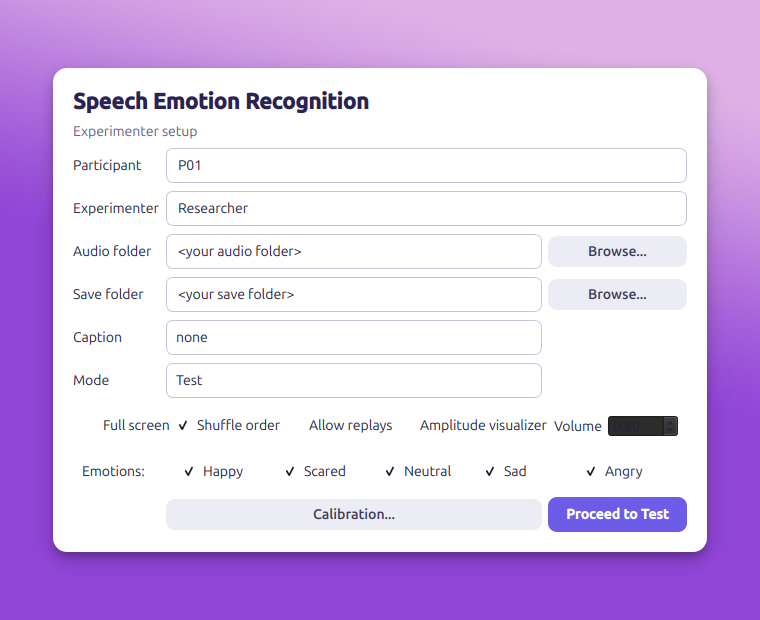
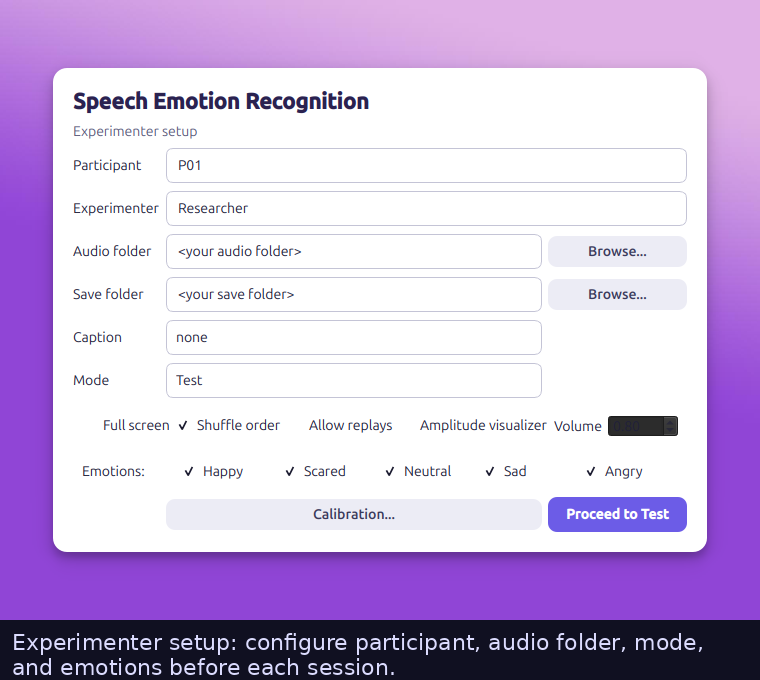
docs: retake calibration screenshots with real data, annotate, expand README
- Three calibration tab screenshots (stimuli/naming, loudness & trim, SPL tone)
  each loaded with bundled audio data and annotated with a wrapped caption bar.
- Folder fields show <your audio folder> placeholder instead of local paths.
- README screenshot section: setup + monitor in main table; calibration tabs
  in a collapsible <details> block to keep the page uncluttered.
- scripts/take_screenshots.py updated with text-wrap annotator and per-tab logic.

diff --git a/scripts/take_screenshots.py b/scripts/take_screenshots.py
@@ -1,52 +1,143 @@
-"""Take screenshots of each UI panel and save to docs/screenshots/."""
+"""Take screenshots of each UI panel and save to docs/screenshots/.
+
+Run with:  DISPLAY=:0 .venv/bin/python scripts/take_screenshots.py
+"""
 import sys
 import os
+import io
 sys.path.insert(0, os.path.join(os.path.dirname(__file__), ".."))
 
-from PyQt6.QtWidgets import QApplication
+from PyQt6.QtWidgets import QApplication, QTabWidget
+from PIL import Image, ImageDraw, ImageFont
+
 app = QApplication(sys.argv[:1])
+OUT = os.path.normpath(os.path.join(os.path.dirname(__file__), "..", "docs", "screenshots"))
+os.makedirs(OUT, exist_ok=True)
 
-out = os.path.join(os.path.dirname(__file__), "..", "docs", "screenshots")
-os.makedirs(out, exist_ok=True)
 
-
-def grab(widget, name):
+def grab_widget(widget) -> Image.Image:
+    """Return a PIL Image of the widget's current appearance."""
     widget.show()
     app.processEvents()
     app.processEvents()
     pix = widget.grab()
-    pix.save(os.path.join(out, name))
+    buf = pix.toImage()
+    ba = __import__('PyQt6.QtCore', fromlist=['QByteArray']).QByteArray()
+    buf2 = __import__('PyQt6.QtCore', fromlist=['QBuffer']).QBuffer(ba)
+    buf2.open(__import__('PyQt6.QtCore', fromlist=['QIODevice']).QIODevice.OpenModeFlag.WriteOnly)
+    buf.save(buf2, "PNG")
+    return Image.open(io.BytesIO(bytes(ba)))
+
+
+def annotate(img: Image.Image, text: str, position: str = "bottom") -> Image.Image:
+    """Add a semi-transparent banner with wrapped *text* to top or bottom of *img*."""
+    import textwrap
+    img = img.convert("RGBA")
+    w, h = img.size
+    font_size = max(15, h // 28)
+    try:
+        font = ImageFont.truetype("/usr/share/fonts/truetype/dejavu/DejaVuSans.ttf", font_size)
+    except Exception:
+        font = ImageFont.load_default()
+
+    # Wrap text to fit image width (estimate ~chars that fit).
+    chars_per_line = max(40, w // (font_size // 2 + 1))
+    lines = textwrap.wrap(text, width=chars_per_line)
+    wrapped = "\n".join(lines)
+
+    dummy = Image.new("RGBA", (1, 1))
+    dc = ImageDraw.Draw(dummy)
+    bbox = dc.textbbox((0, 0), wrapped, font=font)
+    text_h = bbox[3] - bbox[1]
+    bar_h = text_h + 18
+
+    banner = Image.new("RGBA", (w, bar_h), (20, 20, 40, 210))
+    draw = ImageDraw.Draw(banner)
+    draw.text((12, 9), wrapped, font=font, fill=(220, 220, 255, 255))
+
+    out = Image.new("RGBA", (w, h + bar_h))
+    if position == "bottom":
+        out.paste(img, (0, 0))
+        out.paste(banner, (0, h), banner)
+    else:
+        out.paste(banner, (0, 0), banner)
+        out.paste(img, (0, bar_h))
+    return out.convert("RGB")
+
+
+def save(img: Image.Image, name: str) -> None:
+    path = os.path.join(OUT, name)
+    img.save(path)
     print(f"Saved {name}")
-    widget.close()
-    app.processEvents()
 
 
 # ── 1. Experimenter setup ────────────────────────────────────────────────────
 from emognition.ui.config_window import ConfigWindow
 from emognition.config import ExperimentSettings
 
-w1 = ConfigWindow(settings_path="/dev/null")   # ignore saved settings
+w1 = ConfigWindow(settings_path="/dev/null")
 w1.apply_settings(ExperimentSettings(
     participant="P01",
     experimenter="Researcher",
     audio_dir="<your audio folder>",
     save_dir="<your save folder>",
 ))
-grab(w1, "setup.png")
+img = grab_widget(w1)
+w1.close()
+save(annotate(img, "Experimenter setup: configure participant, audio folder, mode, and emotions before each session."), "setup.png")
 
-# ── 2. Calibration window ────────────────────────────────────────────────────
+
+# ── 2. Calibration — three tabs ──────────────────────────────────────────────
 from emognition.ui.calibration_window import CalibrationWindow
-w2 = CalibrationWindow()
-# Clear the pre-filled folder so no local path shows.
-w2.findChild(__import__('PyQt6.QtWidgets', fromlist=['QLineEdit']).QLineEdit).setText("")
-grab(w2, "calibration.png")
+from emognition.ui.assets import audio_dir
 
-# ── 3. Monitor window (seeded with mid-session data) ─────────────────────────
+w2 = CalibrationWindow()
+w2.show()
+app.processEvents()
+tabs: QTabWidget = w2.findChild(QTabWidget)
+
+# Replace local paths with a generic placeholder for all tabs.
+for field in (w2.stim_dir, w2.loud_dir, w2.tone_dir):
+    field.setText("<your audio folder>")
+app.processEvents()
+
+# Tab 0 — Stimuli / naming: load audio and inspect
+tabs.setCurrentIndex(0)
+w2.stim_dir.setText(audio_dir())   # real path needed to scan files
+app.processEvents()
+w2._inspect_stimuli()
+w2.stim_dir.setText("<your audio folder>")  # restore placeholder for screenshot
+app.processEvents()
+app.processEvents()
+img = grab_widget(w2)
+save(annotate(img, "Stimuli / naming: inspect each clip's recognized emotion, sex, and recording ID. Rename legacy filenames to BIDS-style canonical form."), "calibration_stimuli.png")
+
+# Tab 1 — Loudness & trim: preview normalization plan
+tabs.setCurrentIndex(1)
+w2.loud_dir.setText(audio_dir())
+app.processEvents()
+w2._preview_loudness()
+w2.loud_dir.setText("<your audio folder>")
+app.processEvents()
+app.processEvents()
+img = grab_widget(w2)
+save(annotate(img, "Loudness & trim: preview per-clip gain, silence trim, and duration changes. Apply to write a loudness-normalized copy of the corpus."), "calibration_loudness.png")
+
+# Tab 2 — SPL tone: no data to load, just the controls
+tabs.setCurrentIndex(2)
+app.processEvents()
+img = grab_widget(w2)
+save(annotate(img, "SPL tone: play a 1 kHz calibration tone matched to the corpus RMS so you can set booth SPL on a sound-level meter before the session."), "calibration_tone.png")
+
+w2.close()
+
+
+# ── 3. Monitor window (mid-session data) ─────────────────────────────────────
 from emognition.ui.monitor_window import MonitorWindow
+
 w3 = MonitorWindow()
 w3.show()
 app.processEvents()
-
 w3.handle_event({"status": "start", "total": 10, "mode": "test", "participant": "P01"})
 app.processEvents()
 
@@ -63,10 +154,9 @@ for i, (emotion, responded, correct, rt) in enumerate([
     app.processEvents()
 
 app.processEvents()
-pix = w3.grab()
-pix.save(os.path.join(out, "monitor.png"))
-print("Saved monitor.png")
+img = grab_widget(w3)
 w3.close()
+save(annotate(img, "Experimenter monitor: live trial count, last response (correct/wrong), reaction time, and running accuracy — visible only to the experimenter."), "monitor.png")
 
-print("Done.")
+print("All done.")
 sys.exit(0)

diff --git a/README.md b/README.md
@@ -21,10 +21,19 @@ University) — see e.g. [Chatterjee et al., 2019,
 
 ## Screenshots
 
-| Experimenter setup | Live monitor | Calibration |
+| Experimenter setup | Live monitor |
+|:---:|:---:|
+| ![Experimenter setup panel](docs/screenshots/setup.png) | ![Live monitor during a session](docs/screenshots/monitor.png) |
+| Configure participant, audio folder, mode, and emotions before each session. | Accuracy and reaction time update trial-by-trial on the experimenter's screen. |
+
+<details>
+<summary><strong>Calibration window (3 tabs)</strong></summary>
+
+| Stimuli / naming | Loudness & trim | SPL tone |
 |:---:|:---:|:---:|
-| ![Experimenter setup panel](docs/screenshots/setup.png) | ![Live monitor during a session](docs/screenshots/monitor.png) | ![Calibration window](docs/screenshots/calibration.png) |
-| Configure participant, audio folder, mode, and emotions before each session. | Accuracy and reaction time update trial-by-trial on the experimenter's screen. | Inspect, normalize, and rename stimulus files before running. |
+| ![Stimuli tab](docs/screenshots/calibration_stimuli.png) | ![Loudness tab](docs/screenshots/calibration_loudness.png) | ![SPL tone tab](docs/screenshots/calibration_tone.png) |
+
+</details>
 
 ---
 
